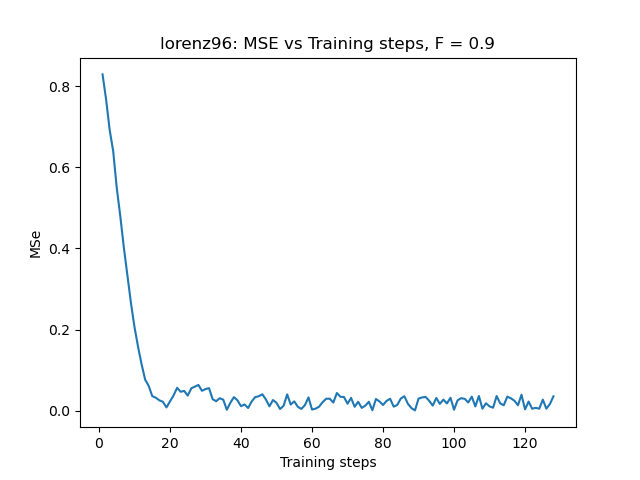
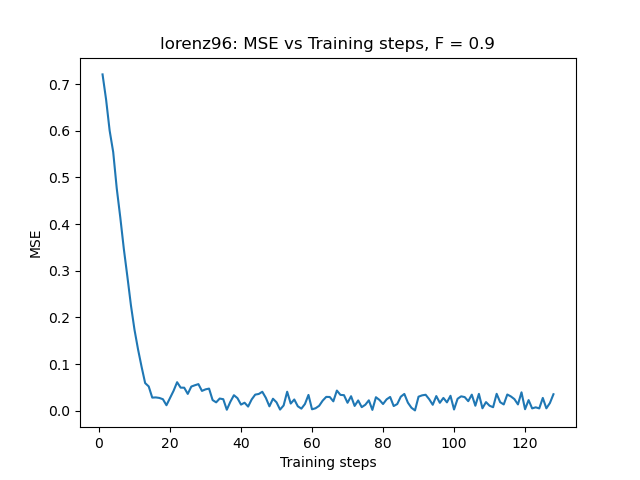
predicting last dimension experiment

diff --git a/examples/lorenz96_exp/lorenz96_task.py b/examples/lorenz96_exp/lorenz96_task.py
@@ -1,7 +1,7 @@
 import torch
 from torch import nn, optim
 import model
-import nrmse
+#import nrmse
 import torch.nn.utils
 import utils
 import argparse
@@ -15,18 +15,10 @@ parser = argparse.ArgumentParser(description='training parameters')
 
 parser.add_argument('--n_hid', type=int, default=128,
     help='hidden size of recurrent net')
-parser.add_argument('--T_in', type=int, default=175,
+parser.add_argument('--seq_len', type=int, default=25,
     help='trajectories used to train')
-parser.add_argument('--T_pred', type=int, default=25,
-    help='trajectory to predict')
-# parser.add_argument('--max_steps', type=int, default=2000,
-#   help='max learning steps')
 parser.add_argument('--log_interval', type=int, default=100,
     help='log interval')
-# parser.add_argument('--batch', type=int, default=25,
-#   help='batch size')
-# parser.add_argument('--batch_test', type=int, default=25,
-#   help='size of test set')
 parser.add_argument('--lr', type=float, default=2e-2,
     help='learning rate')
 parser.add_argument('--dt',type=float, default=1e-2,
@@ -38,8 +30,8 @@ parser.add_argument('--epsilon',type=float, default = 15,
 
 args = parser.parse_args()
 
-n_inp = 5
-n_out = 5
+n_inp = 4
+n_out = args.seq_len
 
 model = model.coRNN(n_inp, args.n_hid, n_out, args.dt, args.gamma, args.epsilon).to(device)
 
@@ -51,13 +43,9 @@ optimizer = optim.Adam(model.parameters(), lr=args.lr)
 def test(path_to_test_csv):
     model.eval()
     with torch.no_grad():
-        data, label = utils.get_data(path_to_test_csv, args.T_in, args.T_pred)
+        data, label = utils.get_data(path_to_test_csv, args.seq_len)
         out = model(data.to(device))
-        loss = objective(out, label.to(device))
-        rmse_loss = torch.sqrt(loss)
-        rms_true = torch.sqrt(torch.mean(label ** 2))
-        nrmse_loss = rmse_loss/rms_true
-        
+        loss = objective(out, label.to(device))       
     return loss.item()
 
 
@@ -72,7 +60,7 @@ def train():
     
     for i in range(1,num_files+1):
         
-        data, label = utils.get_data(f"train{F}/train{F}_{i}.csv", args.T_in, args.T_pred)
+        data, label = utils.get_data(f"train{F}/train{F}_{i}.csv", args.seq_len)
         # print(f"data: {data}")
         # print(f"data.size(): {data.size()}")
         # print(f"label: {label}")
@@ -80,15 +68,11 @@ def train():
         optimizer.zero_grad()
         out = model(data.to(device))
         loss = objective(out, label.to(device))
-        rmse_loss = torch.sqrt(loss)
-        rms_true = torch.sqrt(torch.mean(label ** 2))
-        nrmse_loss = rmse_loss/rms_true
         loss.backward()
         optimizer.step()
 
         if(i%1==0 and i!=0):
             error = test(f"test{F}/test{F}_{i}.csv")
-            #print('Test NRMSE: {:.6f}'.format(mse_error))
             steps.append(i)
             test_err.append(error)
             model.train()
@@ -97,6 +81,10 @@ def train():
 
 
 if __name__ == '__main__':
+    #seq_len = 3
+    #data, label = utils.get_data(f"train09/train09_1.csv", seq_len)
+    
+    
     steps,test_err = train()
     # for param in model.parameters():
     #     print("new param \n")
@@ -104,7 +92,6 @@ if __name__ == '__main__':
     #     print(param)
     #     print("\n\n")
     #print(f"test_mse: {test_mse}")
-    print(mean(test_err[100:]))
     plt.plot(steps,test_err)
     plt.title("lorenz96: MSE vs Training steps, F = 0.9")
     plt.ylabel("MSE")

diff --git a/examples/lorenz96_exp/model.py b/examples/lorenz96_exp/model.py
@@ -1,0 +1,33 @@
+from torch import nn
+import torch
+from torch.autograd import Variable
+device = torch.device('cuda' if torch.cuda.is_available() else 'cpu')
+
+class coRNNCell(nn.Module):
+    def __init__(self, n_inp, n_hid, dt, gamma, epsilon):
+        super(coRNNCell, self).__init__()
+        self.dt = dt
+        self.gamma = gamma
+        self.epsilon = epsilon
+        self.i2h = nn.Linear(n_inp + n_hid + n_hid, n_hid)
+
+    def forward(self, x, hy, hz):      
+        hz = hz + self.dt * (torch.tanh(self.i2h(torch.cat((x, hz, hy), 1)))
+                             - self.gamma * hy - self.epsilon * hz)
+        hy = hy + self.dt * hz
+        return hy, hz
+
+class coRNN(nn.Module):
+    def __init__(self, n_inp, n_hid, n_out, dt, gamma, epsilon):
+        super(coRNN, self).__init__()
+        self.n_hid = n_hid
+        self.cell = coRNNCell(n_inp, n_hid, dt, gamma, epsilon)
+        self.readout = nn.Linear(n_hid, n_out)
+
+    def forward(self, x):
+        hy = Variable(torch.zeros(x.size(1), self.n_hid, dtype=torch.float32)).to(device)
+        hz = Variable(torch.zeros(x.size(1), self.n_hid, dtype=torch.float32)).to(device)
+        for t in range(x.size(0)):
+            hy, hz = self.cell(x[t], hy, hz)
+        output = self.readout(hy)
+        return output

diff --git a/examples/lorenz96_exp/utils.py b/examples/lorenz96_exp/utils.py
@@ -1,0 +1,28 @@
+import torch
+import numpy as np
+import pandas as pd
+
+def parse_data(df, start, end, n=4):
+    tensor_dict = {}
+    for i in range(n):
+        tensor_dict[i] = torch.tensor(df.iloc[start:end, i].values, dtype=torch.float32)
+    data_seg = torch.stack([tensor_dict[i] for i in range(n)], dim=-1)
+    return data_seg
+
+def create_data(df, seq_len):
+    data_dict = {}
+    labels_dict = {}
+    count = 0
+    for i in range(0, len(df.index) - seq_len + 1, seq_len):
+        data_dict[count] = parse_data(df, i, i + seq_len)
+        labels_dict[count] = torch.tensor(df.iloc[i:i+seq_len, -1].values, dtype=torch.float32)
+        count += 1
+    data = torch.stack([data_dict[i] for i in range(count)], dim=1)
+    labels = torch.stack([labels_dict[i] for i in range(count)], dim=0)
+    return data, labels
+
+def get_data(path_to_csv, seq_len):
+    df = pd.read_csv(path_to_csv)
+    df = df.transpose()
+    data, labels = create_data(df, seq_len)
+    return data, labels
